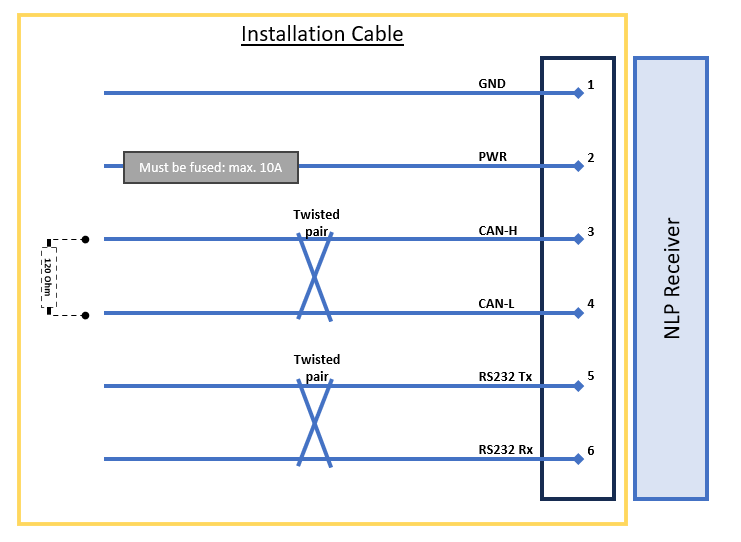
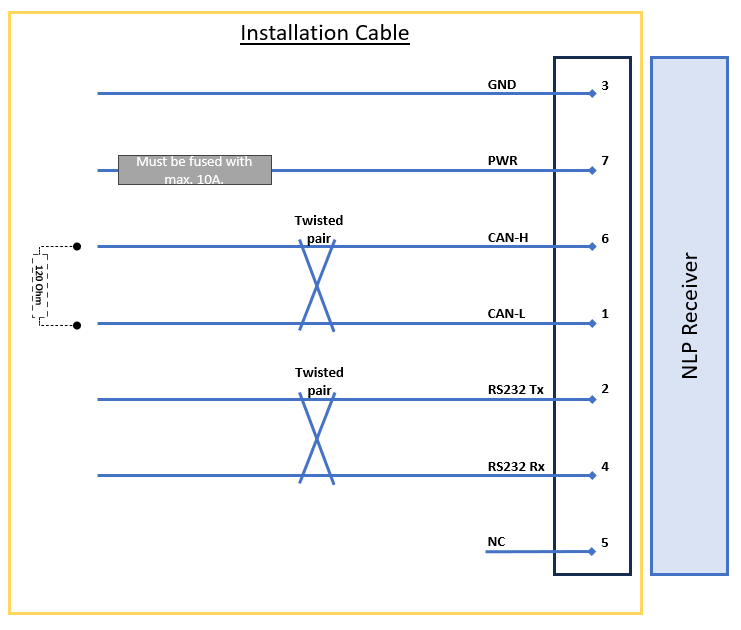
v1.0

Changed region(s): [[0.0, 0.0, 0.9933, 0.9742]]

diff --git a/docs/receiver/receiver_enclosure.md b/docs/receiver/receiver_enclosure.md
@@ -9,7 +9,7 @@ pdf: true
 - Designed for heavy-duty automotive environment (water, dust, shocks, etc.).
 - Weight: 190g.
 - Dimensions: 80x126x51mm (LxWxH).
-- IP69 rating
+- IP69 rating.
 - RGB LED available for diagnosis.
 - Material: PA66+GF30.
 
@@ -20,7 +20,7 @@ pdf: true
 Included a 1 meter pigtail cable with TE-1718230-1 connector:
 
 |**Pin Number** | **Description**                        |
-|----------------|--------|
+|:----------------:|:--------:|
 | 1  | CAN-L        |
 | 2  | RS232-Tx     |
 | 3  | GND          |
@@ -29,14 +29,14 @@ Included a 1 meter pigtail cable with TE-1718230-1 connector:
 | 6  | CAN-H        |
 | 7  | Power        |
 
-![Receiver pinout](images/receiver_pinout.png){ width="150px"}
+|**Pinout** | **Pigtail**                        |
+|:----------------:|:--------:|
+| ![Receiver pinout](images/receiver_pinout.png){ width="200px"}  | ![Receiver pigtail](images/receiver_pigtail.png){ width="300px"}      |
 
 The matching connector for an installation cable is the following:
 
 - Matching Connector: TE PN 967650-1
 - Matching Terminal: TE PN 929989-1
-
-![Receiver pigtail](images/receiver_pigtail.png){ width="400px"}
 
 ## General Wiring
 
@@ -48,40 +48,32 @@ The general wiring of the NLP receiver follows the picture:
 
     - A fuse **must** be added to the power line of the receiver, or the power line must come directly from the fuse box.
     - The receiver power (PIN 7) must come from **K15** (Vehicle Ignition).
-    	- Do <span style="color:red">**not**</span> connect it to permanent power (K30).
+        - Do <span style="color:red">**not**</span> connect it to permanent power (K30).
     - Connect the ground wire (PIN 3) to the vehicle ground (K31). 
     - _[Optional]_ CAN Bus connection:
-    	- Connect the CAN-H and CAN-L wires to the corresponding CAN bus connection
-    	- The NLP receiver includes a 120 Ohm termination resistor, which can be disabled.
-    	- If the desired CAN-Bus is not terminated, a 120 Ohm termination resistor is required
+        - Connect the CAN-H and CAN-L wires to the corresponding CAN bus connection
+        - The NLP receiver includes a 120 Ohm termination resistor, which can be disabled.
+        - If the desired CAN-Bus is not terminated, a 120 Ohm termination resistor is required
     - _[Optional]_ RS232 connection:
-    	- Connect the RS232 Tx and RS232 Rx wires to the corresponding RS232 interface connection
+        - Connect the RS232 Tx and RS232 Rx wires to the corresponding RS232 interface connection
     - We recommend using twisted pairs for all communication wires: CAN and RS232.
 
-## Wiring with Telematics
-
-If the receiver will be installed with a Telematics box, please follow the guidelines below:
-
-- The Telematics unit requires Power (K30) and Ignition (K15).
-	- The NLP Receiver **must** still be supplied with the ignition signal (K15).
-	- A fuse must be added to both power and ignition signals.
-- The Telematics unit does not have a CAN termination. A 120-Ohms termination resistor must be added to the cable as close as possible to the Telematics unit, between CAN High and Low (Telematics pins 4 and 5).
-
-## Wiring with EBS (Trailers) 
+## Wiring with EBS (Trailers)
 
 For Trailer installations is recommended to get power by connecting the transceiver to the EBS system. A different suite of cables is required depending on the EBS system and if the CAN communication for EU-R141 will be required.
 
 - The Trailer owner must ensure that the EBS system is already setup to provide power (and communication) in the chosen port.
 
-### Wabco (ZF) TEBS-E 
+### Wabco (ZF) TEBS-E
 
 #### EU-R141 Communication
+
 For R141 compliance, one must use the GIO5 port. The installer must use the cable **449 915 010 0** from Wabco, connected to our cable **16050**.
 
 ![Cable_Wabco](images/Wabco_Installation.png){ width="800px"}
 
-
 #### Power only
+
 For aftermarket installations, any free GIOx port can be used. The installer must use the cable **449 443 010 0** from Wabco, connected to our cable **16050**.
 
 ![Cable_Wabco](images/Wabco_Installation_AFM.png){ width="800px"}
@@ -89,19 +81,21 @@ For aftermarket installations, any free GIOx port can be used. The installer mus
 ### Haldex G2/G3
 
 #### Power only
+
 For aftermarket installations, any free AUX port can be used. The installer must use the cable **814 012 221** from Haldex, connected to our cable **16050**.
 
 ![Cable_Haldex](images/Haldex_Installation2.png){ width="800px"}
 
-
 ### Haldex 4.0
 
 #### EU-R141 Communication
+
 For R141 compliance, one must use the AUX port. The installer must use the cable **884 321 010** from Haldex, connected to our cable **16050**.
 
 ![Cable_Haldex](images/Haldex_Installation.png){ width="800px"}
 
 #### Power only
+
 For aftermarket installations, any free AUX port can be used. The installer must use the cable **884 321 010** from Haldex, connected to our cable **16050**.
 
 ![Cable_Haldex](images/Haldex_Installation.png){ width="800px"}
@@ -109,23 +103,36 @@ For aftermarket installations, any free AUX port can be used. The installer must
 ### Knorr-Bremse G2.2
 
 #### EU-R141 Communication
+
 For R141 compliance, one must use the AUX port. The installer must use the cable **15792**.
 
 ![Cable_KB](images/KB_Installation2.png){ width="800px"}
 
 #### Power only
+
 For aftermarket installations, one must use the AUX port. The installer must use the cable **15792**.
 
 ![Cable_KB](images/KB_Installation2.png){ width="800px"}
 
-### Knorr-Bremse iEBS
+### Knorr-Bremse iTEBS X
 
 #### EU-R141 Communication
+
 For R141 compliance, one must use the AUX port. The installer must use the cable **15782**.
 
 ![Cable_KB](images/KB_Installation.png){ width="800px"}
 
 #### Power only
+
 For aftermarket installations, one must use the AUX port. The installer must use the cable **15782**.
 
 ![Cable_KB](images/KB_Installation.png){ width="800px"}
+
+## Wiring with Telematics
+
+If the receiver will be installed with a Telematics box, please follow the guidelines below:
+
+- The Telematics unit requires Power (K30) and Ignition (K15).
+    - The NLP Receiver **must** still be supplied with the ignition signal (K15).
+    - A fuse must be added to both power and ignition signals.
+- The Telematics unit does not have a CAN termination. A 120-Ohms termination resistor must be added to the cable as close as possible to the Telematics unit, between CAN High and Low (Telematics pins 4 and 5).

diff --git a/docs/sensors/internal_valve.md b/docs/sensors/internal_valve.md
@@ -20,10 +20,10 @@ pdf: true
 
 |**Fitment Steps** | **Picture**                        |
 |----------------|:--------:|
-| 1. Secure the valve to the sensor with the screw and a torque of 5Nm.  | ![Step 1](images/valve_mounted_instruction_step1.JPG){ width="600px"}        |
-| 2. Put the valve through the valve hole, ensuring the rubber grommet makes good contact all around. Attach the nut to the valve by hand. Then, tigthen the nut with a torque tool to 12-15Nm.  | ![Step 2](images/valve_mounted_instruction_step2.JPG){ width="600px"}             |
-| 3. Remount the tire to the rim, ensuring the valve is opposite the tire fitting head.  | ![Step 3](images/valve_mounted_instruction_step3.JPG){ width="600px"}       |
-| 4. Place the tire in an inflation safety cage and inflate the tire to the required pressure value.  | ![Step 4](images/valve_mounted_instruction_step4.JPG){ width="600px"}        |
+| 1. Secure the valve to the sensor with the screw and a torque of 5Nm.  | ![Step 1](images/valve_mounted_instruction_step1.JPG){ width="400px"}        |
+| 2. Put the valve through the valve hole, ensuring the rubber grommet makes good contact all around. Attach the nut to the valve by hand. Then, tigthen the nut with a torque tool to 12-15Nm.  | ![Step 2](images/valve_mounted_instruction_step2.JPG){ width="400px"}             |
+| 3. Remount the tire to the rim, ensuring the valve is opposite the tire fitting head.  | ![Step 3](images/valve_mounted_instruction_step3.JPG){ width="400px"}       |
+| 4. Place the tire in an inflation safety cage and inflate the tire to the required pressure value.  | ![Step 4](images/valve_mounted_instruction_step4.JPG){ width="400px"}        |
 
 ### Caution
 

diff --git a/docs/sensors/external_spec.md b/docs/sensors/external_spec.md
@@ -9,13 +9,13 @@ pdf: true
 - Gauge Pressure: 0 – 12 Bar (0 – 174 PSI).
 - Pressure Resolution: 0.1 Bar.
 - Pressure Accuracy: +/- 0.1 Bar.
-- Temperature: -40°C – 85°C (-40°F - 185°F) .
+- Temperature: -40°C – 85°C (-40°F - 185°F).
 - Temperature Resolution: 1°C.
 - Temperature Accuracy: +/- 4°C.
 
 ## Battery and Lifetime
 
-- Battery: Coin-cell BR1225, 48mAh .
+- Battery: Coin-cell BR1225, 48mAh.
 - Expected lifetime : 4+ years in operation + 1 year in storage.
 - Remaining Lifetime indicator.
 - Lifetime not impacted by number of driving hours.
@@ -30,7 +30,7 @@ pdf: true
 
 ## Transmission Routine
 
-- Frequency at 433.92MHz
+- Frequency at 433.92MHz.
 - Fixed transmission every 60 seconds.
 - Rapid transmission in alert mode.
 

diff --git a/docs/sensors/external_types_installation.md b/docs/sensors/external_types_installation.md
@@ -7,7 +7,7 @@ pdf: true
 ## Sensor Types
 
 |**Sensor Type** | **Optional installation position** | **Picture** |
-|----------------|--------|--------|
+|----------------|--------|:--------:|
 | Flow-through Standard Sensor | Single tire or inner dual tires | ![Step 1](images/ft_standard.jpg){ width="400px"}        |
 | Flow-through Short Flexy Sensor | Outer dual tires (+ rim clamp) | ![Step 2](images/ft_flexy_short.jpg){ width="400px"}             |
 | Flow-through Long Flexy Sensor | Inner dual tires (+ rim clamp)  | ![Step 3](images/ft_flexy_long.jpg){ width="400px"}       |

diff --git a/docs/sensors/internal_strap.md b/docs/sensors/internal_strap.md
@@ -13,8 +13,8 @@ pdf: true
 
 - Weight: 71.5g.
 - Dimensions: 84x32x23mm (LxWxH).
-- Water proof: IP67, IP69K
-- Material: Plastic
+- Water proof: IP67, IP69K.
+- Material: Plastic.
 
 ## Fitment Instruction
 
@@ -31,5 +31,3 @@ pdf: true
 - Read through these instructions before sensor installation.
 - Ensure that no contact takes place between the bead breaker blade and the sensor, avoiding any potential damage to the sensor.
 - You must service/replace the valve each time the tyre is removed to uphold the sensor warranty.
-
-

diff --git a/docs/sensors/internal_spec.md b/docs/sensors/internal_spec.md
@@ -30,19 +30,7 @@ pdf: true
 
 ## Transmission Routine
 
-- Frequency at 433.92MHz
+- Frequency at 433.92MHz.
 - Fixed transmission every 120 seconds.
 - Three frames of data transmitted for redundancy and reliability.
 - Rapid transmission in alert mode.
-
-## Installation and Maintenance
-
-- Suitable for a varitey of valves.
-- Valve nozzle distance is adjustable.
-
-## Mechanical Features
-
-- Weight: 71.5g.
-- Dimensions: 102x62x39mm (LxWxH).
-- Water proof: IP67, IP69K
-- Material: Plastic, brass

diff --git a/docs/receiver/receiver_spec.md b/docs/receiver/receiver_spec.md
@@ -11,7 +11,7 @@ The new generation of the TPMS transceivers, for Trucks and Trailers, highlighte
 - Two fully independent channels for parallel data reception.
 - Receiving and decoding in parallel two separated sensor types.
 - 433MHz, FSK or OOK modulation.
-- Precise RSSI (signal strength) measurement
+- Precise RSSI (signal strength) measurement.
 
 ## Electrical Specifications
 

diff --git a/docs/display/display_spec.md b/docs/display/display_spec.md
@@ -21,7 +21,7 @@ that Transceiver, including the Trailers.
 - Overvoltage protection up to 45V.
 - Powered by EFR32BG22 chipset.
 - ON/OFF Vibration switch sensor.
-- Average consumption: 7mA
+- Average consumption: 7mA.
 
 ## Wireless Communication
 
